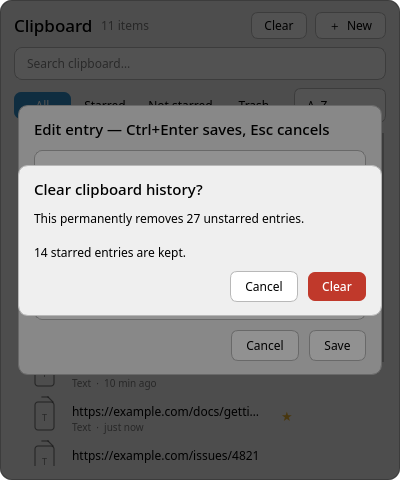
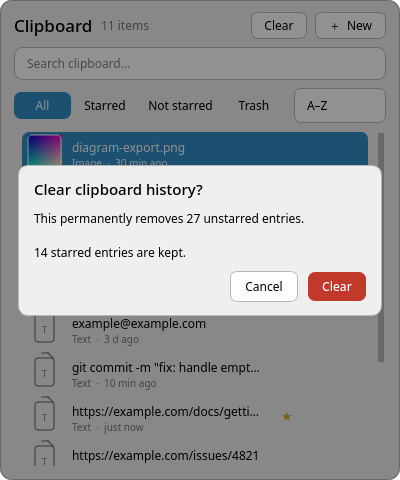
feat: the ✎ button works on trashed rows too
The trash view skipped the edit chip, leaving a dead gap between ↩
and ☆. All three chips now paint in every view — the geometry was
already shared, only the trash branch opted out.

A dead icon would be worse than the gap, so the button works: the
editor opens the trashed text, Save writes the correction back into
the trash sidecar, and restoring afterwards brings back the fixed
text. Tracked with a flag on the open editor (trashed uuids are not
in Klipper's table), reset on every close.

Covered by a real click on ✎ in the trash: editor opens with the
trashed text, the sidecar holds the correction, the restored entry
carries it.

diff --git a/src/main.cpp b/src/main.cpp
@@ -755,13 +755,11 @@ public:
             chip.setAlpha(selected ? 60 : 90);
             p->setPen(Qt::NoPen);
             p->setBrush(chip);
-            // No ✎ chip in the trash: a trashed row is not part of the history,
-            // so there is nothing to correct there yet. The slot stays empty,
-            // which keeps the button geometry identical in every view.
-            QVector<QRect> chips{editButtonRect(row), starButtonRect(row), removeButtonRect(row)};
-            if (trashView) {
-                chips.removeFirst();
-            }
+            // All three chips in every view, trash included: the ✎ slot used to
+            // stay empty in the trash, which left a dead gap between ↩ and ☆.
+            // A trashed row's text is editable too — it is written back into
+            // the sidecar, so a later restore brings back the corrected text.
+            const QVector<QRect> chips{editButtonRect(row), starButtonRect(row), removeButtonRect(row)};
             for (const QRect &r : chips) {
                 p->drawRoundedRect(r.adjusted(0, 0, -1, -1), 6, 6);
             }
@@ -769,9 +767,7 @@ public:
             bf.setPointSizeF(f.pointSizeF() + 1);
             p->setFont(bf);
             p->setPen(fg);
-            if (!trashView) {
-                p->drawText(editButtonRect(row), Qt::AlignCenter, QStringLiteral("✎"));
-            }
+            p->drawText(editButtonRect(row), Qt::AlignCenter, QStringLiteral("✎"));
             // In the trash the star is an action ("restore it starred"), not a
             // state marker, so it is drawn empty even for an entry that was
             // starred when it was thrown away.
@@ -1995,6 +1991,7 @@ private:
         m_search->setFocus();
         m_editOverlay->hide();
         m_editUuid.clear();
+        m_editingTrash = false;
     }
 
     void openEditor(const QString &uuid)
@@ -2006,7 +2003,19 @@ private:
                 break;
             }
         }
+        // A trashed uuid is not in the history; it lives in the sidecar.
+        // Found there, the editor writes back into the sidecar on Save.
+        m_editingTrash = target == nullptr;
+        if (m_editingTrash) {
+            for (const TrashRow &t : m_store.trash) {
+                if (t.e.uuid == uuid) {
+                    target = &t.e;
+                    break;
+                }
+            }
+        }
         if (!target) {
+            m_editingTrash = false;
             return; // cleared between the click and here; nothing to edit
         }
         m_editUuid = uuid;
@@ -2022,13 +2031,34 @@ private:
     }
 
     // Writes the corrected text back into that one entry. The clipboard itself is
-    // untouched: this repairs history, it does not copy anything.
+    // untouched: this repairs history, it does not copy anything. A trashed
+    // entry is repaired in the sidecar instead, so restoring it later brings
+    // back the corrected text.
     void saveEdit()
     {
         const QString text = m_editText->toPlainText();
         const QString uuid = m_editUuid;
+        const bool toTrash = m_editingTrash;
         closeEditor();
         if (uuid.isEmpty()) {
+            return;
+        }
+        if (toTrash) {
+            QVector<TrashRow> trash = loadTrash();
+            bool ok = false;
+            for (TrashRow &t : trash) {
+                if (t.e.uuid == uuid) {
+                    t.e.text = text;
+                    ok = true;
+                    break;
+                }
+            }
+            if (ok) {
+                saveTrash(trash);
+            }
+            reload();
+            flash(ok ? QStringLiteral("Entry updated.")
+                     : QStringLiteral("Entry is gone; nothing to update."));
             return;
         }
         QSqlDatabase db = QSqlDatabase::addDatabase(QStringLiteral("QSQLITE"), QStringLiteral("ccedit"));
@@ -2259,7 +2289,9 @@ private:
                                      : m_store.entryFor(idx.data(Qt::UserRole).toInt());
                 if (e) {
                     const QPoint p = me->pos();
-                    if (!trashView && editButtonRect(row).contains(p)) {
+                    // ✎ works in the trash too: openEditor/saveEdit know a
+                    // trashed uuid belongs to the sidecar, not to Klipper.
+                    if (editButtonRect(row).contains(p)) {
                         traceClick(QStringLiteral("EDIT row=%1 pos=%2,%3")
                                        .arg(idx.row())
                                        .arg(p.x())
@@ -2639,6 +2671,7 @@ private:
     QPlainTextEdit *m_editText = nullptr;
     QPushButton *m_editSave = nullptr;
     QString m_editUuid;
+    bool m_editingTrash = false; // the open editor targets the sidecar, not Klipper
     QComboBox *m_sort = nullptr;
     RowDelegate *m_delegate = nullptr;
     Store m_store;
@@ -3240,6 +3273,46 @@ const QString tmpDir = QDir(QDir::tempPath()).absoluteFilePath(QStringLiteral("c
             }
         }
         check(starredBack2 && starredFlag, "the star button restores a trashed entry as starred");
+        deck->clearTrashForTest();
+
+        // The ✎ button in the trash: same slot as in the history, no gap.
+        // A real click opens the trashed text, Save writes it into the
+        // sidecar, and restoring afterwards brings back the corrected text.
+        deck->reload();
+        deck->showForTest();
+        const QString editTrashUuid = deck->uuidAtRow(deck->firstNonStarredRow());
+        deck->trashByUuidForTest(editTrashUuid);
+        deck->selectTabForTest(3);
+        QListWidget *tl5 = deck->trashListForTest();
+        if (tl5->count() > 0) {
+            const QRect er = tl5->visualItemRect(tl5->item(0));
+            Deck::clickAt(tl5->viewport(), editButtonRect(er).center());
+        }
+        check(deck->editorVisibleForTest(), "clicking ✎ in the trash opens the editor");
+        bool trashedTextShown = false;
+        for (const TrashRow &t : loadTrash()) {
+            if (t.e.uuid == editTrashUuid) {
+                trashedTextShown = deck->editorTextForTest() == t.e.text;
+            }
+        }
+        check(trashedTextShown, "the editor shows the trashed text");
+        deck->setEditorTextForTest(QStringLiteral("corrected while trashed"));
+        deck->saveEditForTest();
+        bool sidecarRewritten = false;
+        for (const TrashRow &t : loadTrash()) {
+            if (t.e.uuid == editTrashUuid) {
+                sidecarRewritten = t.e.text == QStringLiteral("corrected while trashed");
+            }
+        }
+        check(sidecarRewritten, "Save writes the correction into the trash sidecar");
+        deck->restoreByUuidForTest(editTrashUuid, false);
+        bool correctedBack = false;
+        for (const Entry &e : readHistory()) {
+            if (e.uuid == editTrashUuid) {
+                correctedBack = e.text == QStringLiteral("corrected while trashed");
+            }
+        }
+        check(correctedBack, "restoring brings back the corrected text");
         deck->clearTrashForTest();
 
         // The star button in the trash restores AND stars (user request).

diff --git a/CHANGELOG.md b/CHANGELOG.md
@@ -27,7 +27,9 @@ Format based on [Keep a Changelog](https://keepachangelog.com/en/1.1.0/).
 - Per-row star, edit and remove buttons, revealed on hover.
 - **✎ opens the full text** of an entry in a multi-line card, editable: Save
   (Ctrl+Enter) writes the corrected text back into that entry, Esc cancels.
-  Hovering a row no longer shows a tooltip — see Fixed below.
+  Hovering a row no longer shows a tooltip — see Fixed below. The button is
+  present on trashed rows too, filling the gap between ↩ and ☆; the correction
+  is written into the trash sidecar, so restoring brings back the fixed text.
 - Right-click menu: Star/Unstar, Copy only, Move to trash (Restore / Restore and
   star / Copy only on the Trash tab).
 - **＋ New** — add an entry to the clipboard from an inline field.

diff --git a/README.md b/README.md
@@ -105,7 +105,9 @@ Notes:
 Hover a row and click **✎** to see the whole text, with newlines intact. You can
 fix a typo there and press **Save** (or Ctrl+Enter). **Esc** or clicking the
 dimmed area around the card closes it without saving. The edited text is written
-back into that entry only — the clipboard is not touched.
+back into that entry only — the clipboard is not touched. The button is there on
+trashed rows too: the correction lands in the trash, so restoring afterwards
+brings back the fixed text.
 
 ![Editing an entry](docs/preview-edit.png)
 
